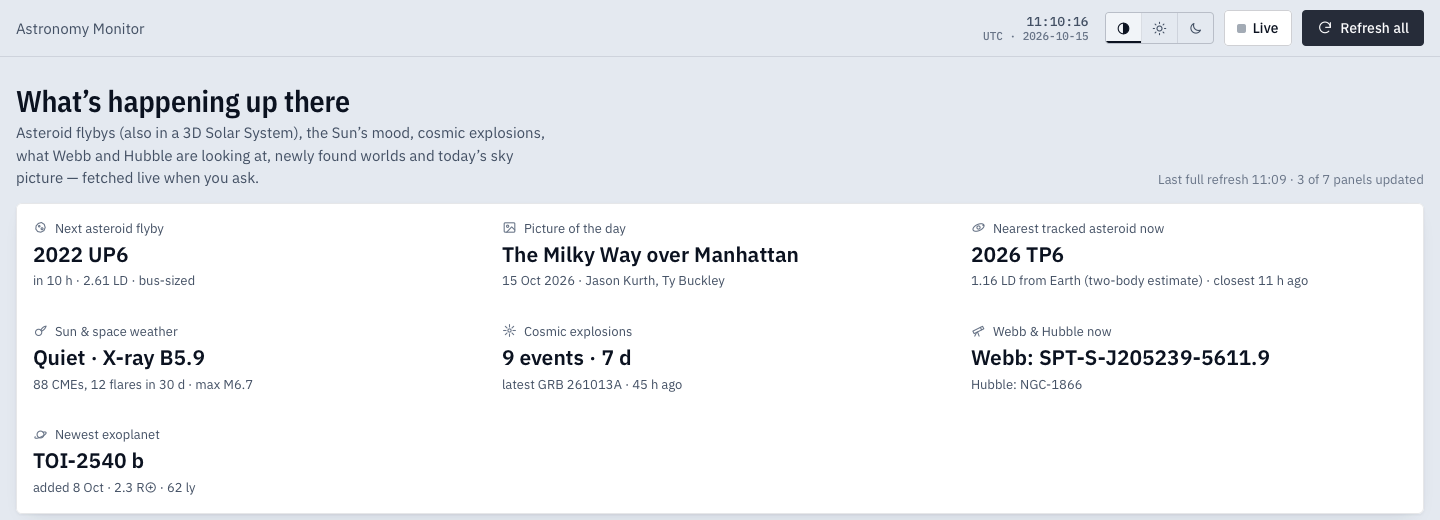
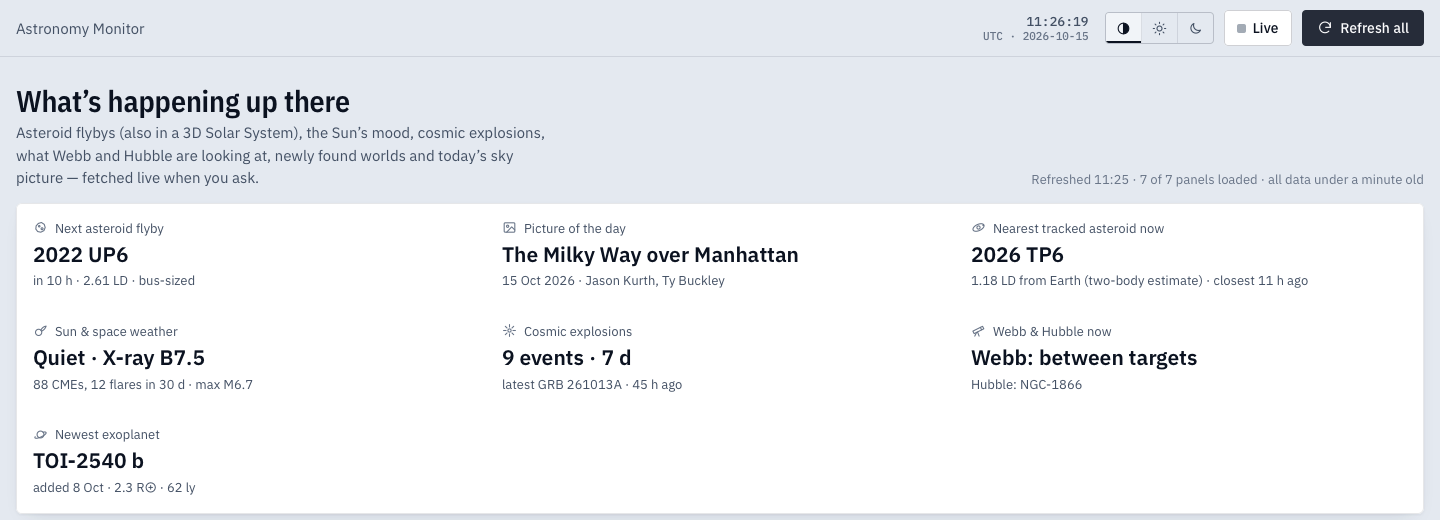
README: retake screenshots with the fixed refresh summary
Light/dark pairs of the dashboard, the 3D Solar System and phone width,
captured from the live site in UTC. The README explains the summary line
and why each panel shows its own data age.

Changed region(s): [[0.7188, 0.3385, 1.0, 0.3692], [0.7188, 0.6769, 0.9062, 0.7077], [0.125, 0.6769, 0.1562, 0.7077]]

diff --git a/README.md b/README.md
@@ -34,7 +34,7 @@ A one-page dashboard of what is happening in the sky right now: asteroid flybys,
 | **Astronomy Picture of the Day** | Today's picture or video with explanation and credit, plus the last week as a filmstrip | NASA APOD |
 | **Solar System in 3D** | The Sun, planets, the Moon and every asteroid from the close-approach panel at their computed positions, in a 3D view you can rotate, pan and zoom (touch too). Play time forward or backward at 1 hour to 1 year per second, or jump to any date 1900–2049 or to an asteroid's closest approach. "Near Earth" follows Earth and shows the Moon's orbit and the selected asteroid's path relative to Earth. Each asteroid's official close approach is shown next to this view's own estimate | JPL planetary elements (Table 1) · JPL SBDB orbits · CNEOS Close Approach Data |
 
-Data is fetched **when you press a button**: "Refresh all" at the top, or a panel's own ↻ button. Your last results are kept in your browser so the page isn't empty when you come back. Each panel loads independently, so if one source is down, the rest still work.
+Data is fetched **when you press a button**: "Refresh all" at the top, or a panel's own ↻ button. Your last results are kept in your browser so the page isn't empty when you come back. Each panel loads independently, so if one source is down, the rest still work. A line under the heading sums up the last refresh ("7 of 7 panels loaded · oldest data 25 min old"). Answers can come from Cloudflare's cache for up to each source's cache lifetime, so every panel also shows the real age of its own data.
 
 **Live mode** (the **Live** switch) is the one exception. While it is on *and the page is visible*, the fast-changing sources refresh themselves: X-ray flux every minute, DONKI solar events every 15 minutes, GCN Circulars every 10 minutes. It is off every time you open the page, pauses whenever the tab is hidden or offline (a hidden tab makes no requests at all), and backs off when a source fails.
 
